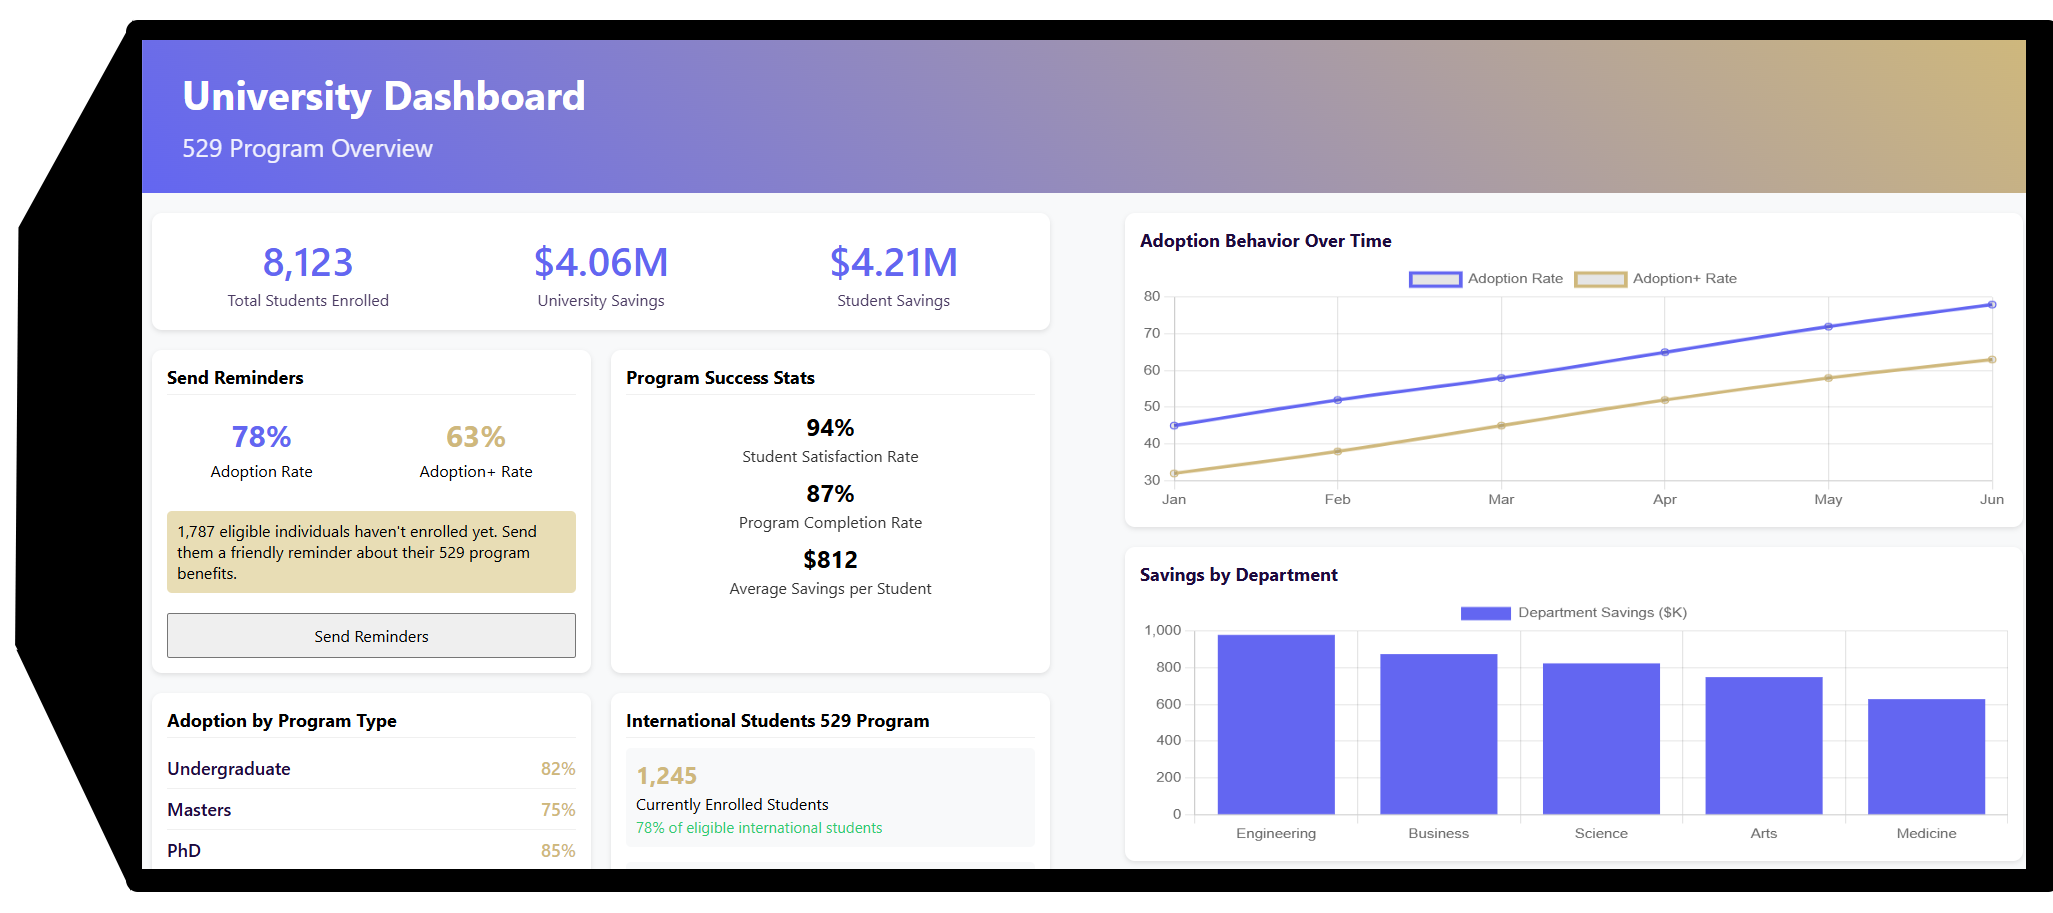
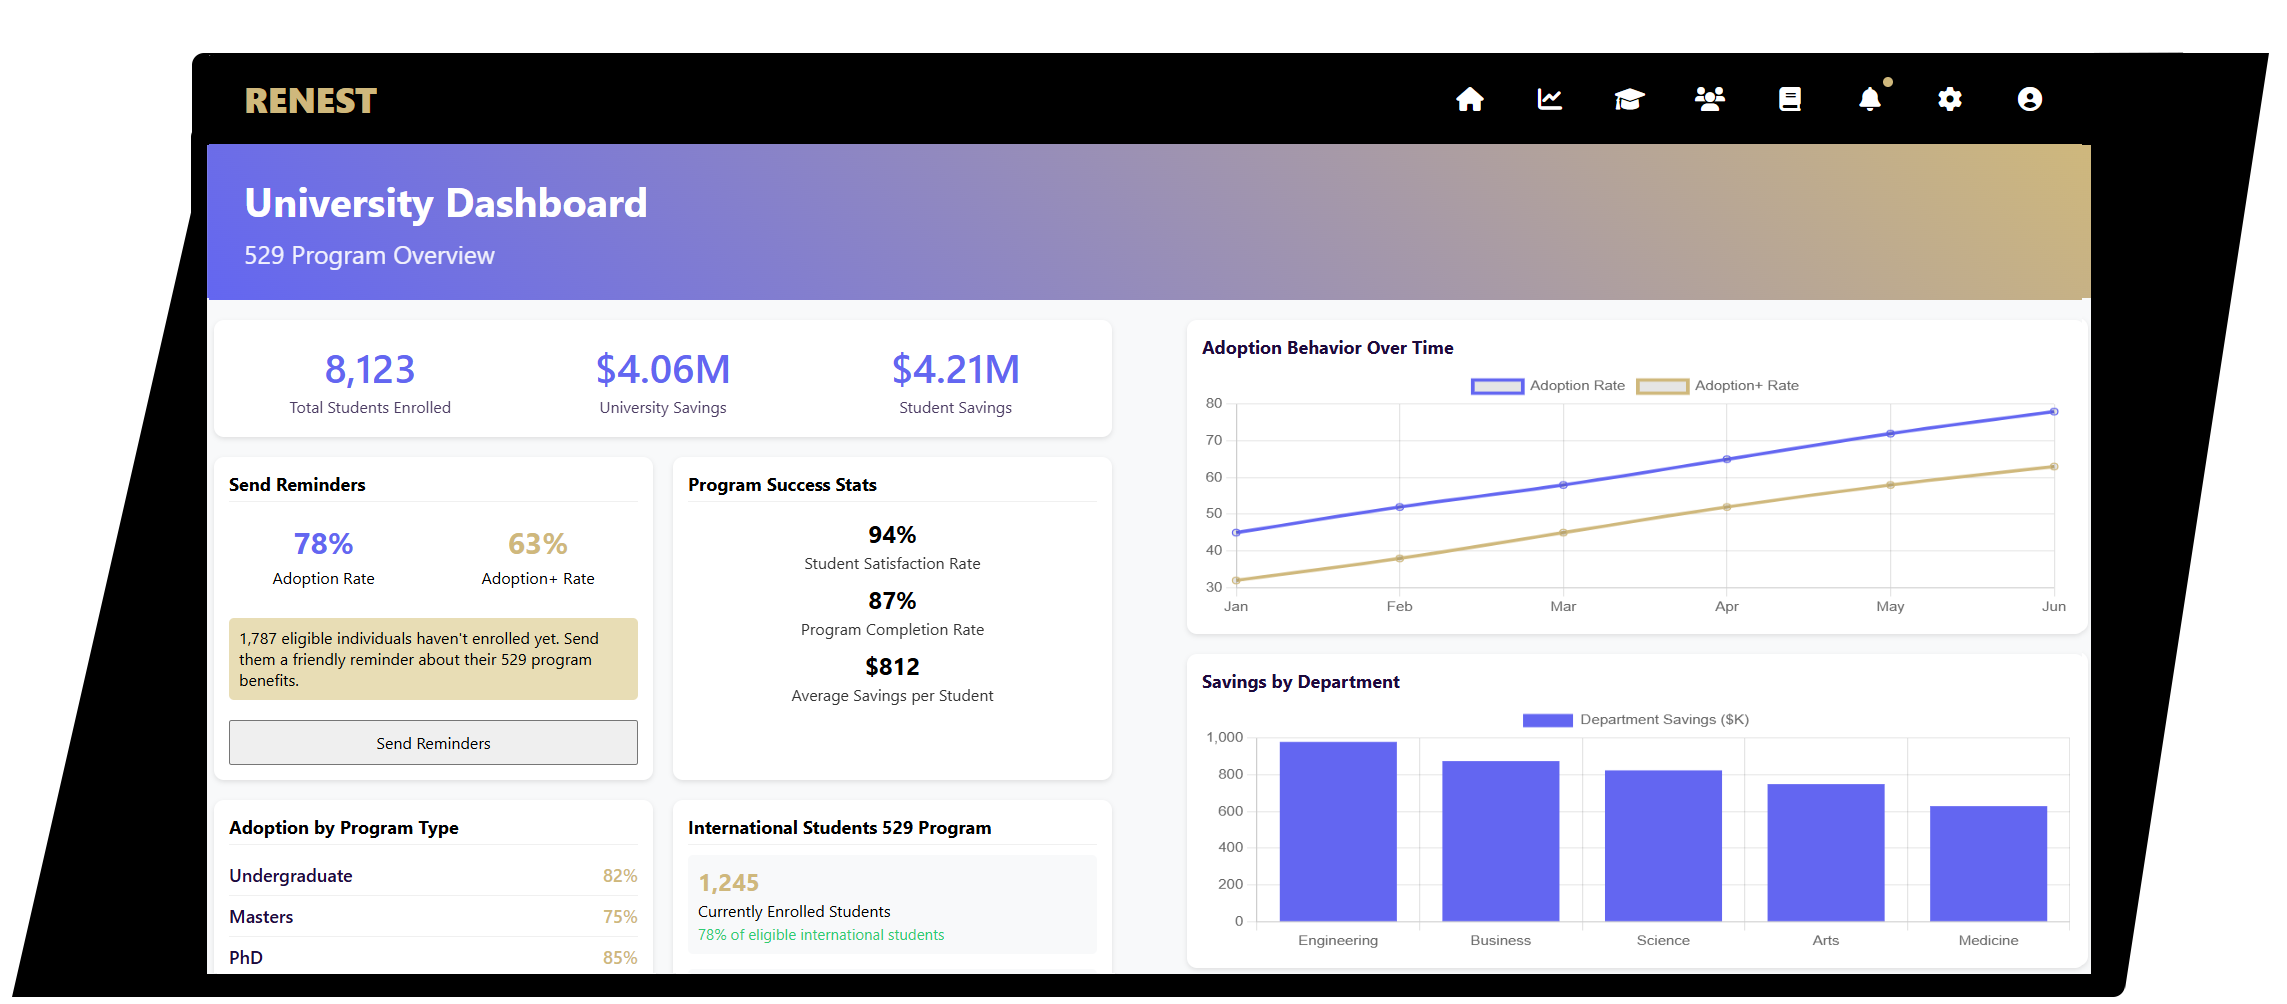
sdf

diff --git a/University_dashboard.html b/University_dashboard.html
@@ -5,6 +5,7 @@
     <meta name="viewport" content="width=device-width, initial-scale=1.0">
     <title>University Dashboard - RENEST</title>
     <script src="https://cdnjs.cloudflare.com/ajax/libs/Chart.js/3.9.1/chart.min.js"></script>
+    <link rel="stylesheet" href="https://cdnjs.cloudflare.com/ajax/libs/font-awesome/6.0.0/css/all.min.css">
     <style>
         :root {
             --primary: #6366F1;
@@ -466,7 +467,7 @@
 
         .header-nav {
             display: flex;
-            gap: 2rem;
+            gap: 1.5rem;
             align-items: center;
         }
 
@@ -474,11 +475,31 @@
             color: white;
             text-decoration: none;
             font-weight: 500;
-            transition: color 0.2s ease;
+            transition: all 0.2s ease;
+            font-size: 1.2rem;
+            width: 40px;
+            height: 40px;
+            display: flex;
+            align-items: center;
+            justify-content: center;
+            border-radius: 50%;
+            position: relative;
+        }
+
+        .header-nav a .notification-dot {
+            position: absolute;
+            top: 2px;
+            right: 2px;
+            width: 8px;
+            height: 8px;
+            background-color: var(--accent);
+            border-radius: 50%;
         }
 
         .header-nav a:hover {
             color: var(--accent);
+            background: rgba(255, 255, 255, 0.1);
+            transform: translateY(-2px);
         }
 
         .main-header .logo {
@@ -563,10 +584,14 @@
     <header class="main-header">
         <div class="logo">RENEST</div>
         <nav class="header-nav">
-            <a href="#">Home</a>
-            <a href="#">Programs</a>
-            <a href="#">Resources</a>
-            <a href="#">Contact</a>
+            <a href="#" title="Dashboard"><i class="fas fa-home"></i></a>
+            <a href="#" title="Analytics"><i class="fas fa-chart-line"></i></a>
+            <a href="#" title="Programs"><i class="fas fa-graduation-cap"></i></a>
+            <a href="#" title="Employee Directory"><i class="fas fa-users"></i></a>
+            <a href="#" title="Resources"><i class="fas fa-book"></i></a>
+            <a href="#" title="Notifications"><i class="fas fa-bell"><span class="notification-dot"></span></i></a>
+            <a href="#" title="Settings"><i class="fas fa-cog"></i></a>
+            <a href="#" title="Profile"><i class="fas fa-user-circle"></i></a>
         </nav>
     </header>
 

diff --git a/admin529.html b/admin529.html
@@ -96,7 +96,7 @@ j=d.createElement(s),dl=l!='dataLayer'?'&l='+l:'';j.async=true;j.src=
 /* Hide image container by default (mobile) */
 .hero-image-container {
     display: none;
-    transform: translateX(calc(50vw - 60rem));
+    transform: translateX(calc(50vw - 62rem));
 }
 
 /* Control image size and position */
